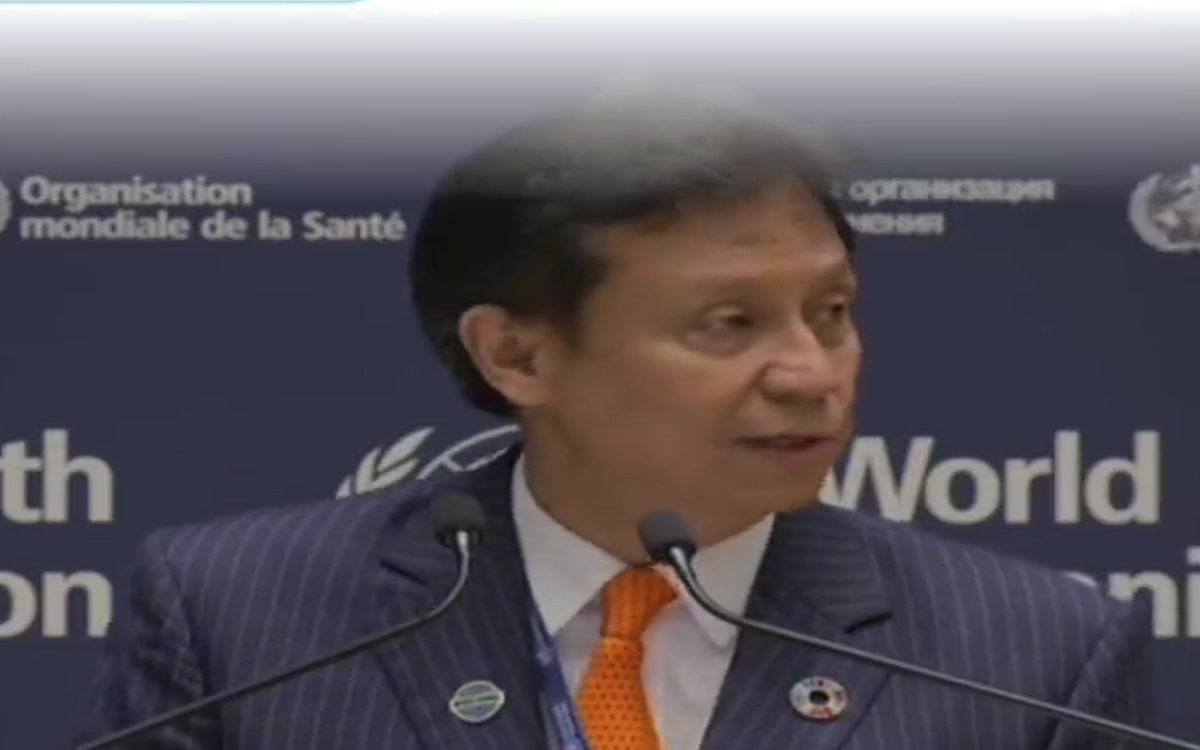
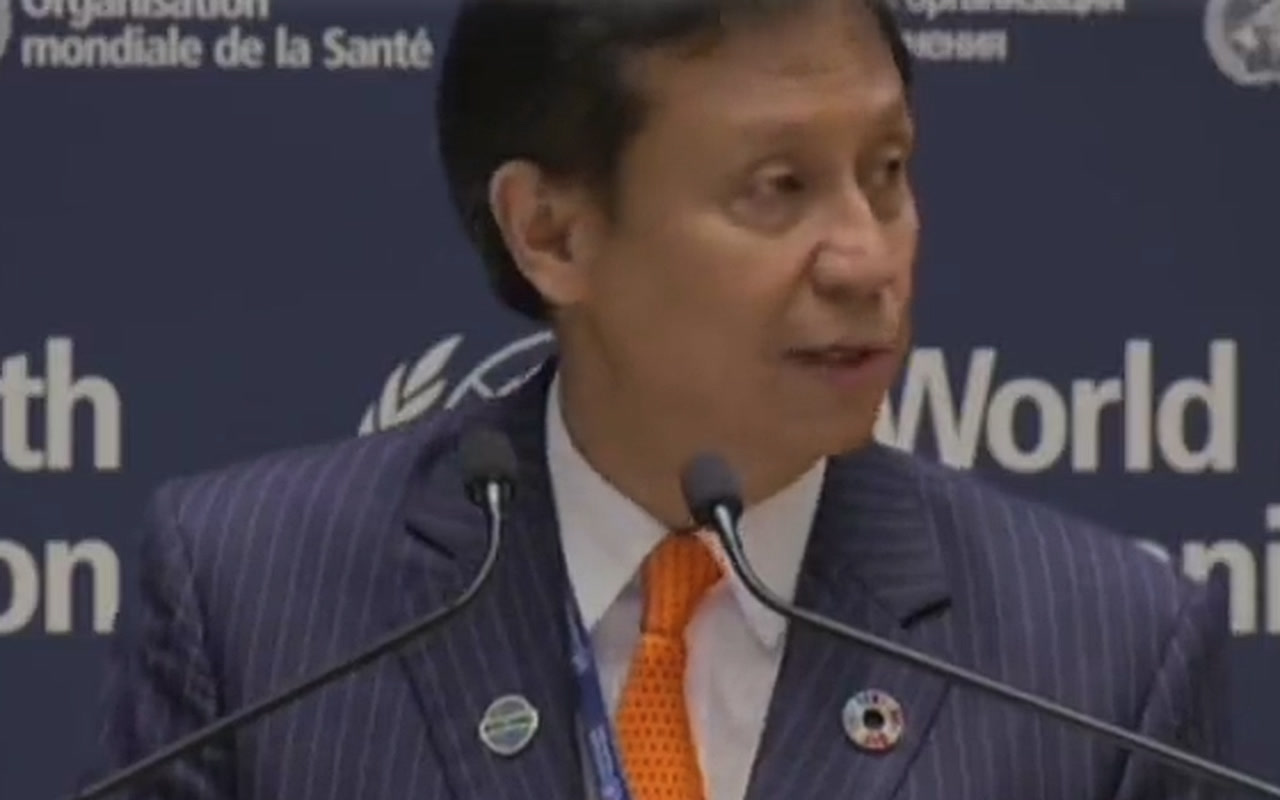
Fix stretched cover crop and rename badge to First Candidates Forum

diff --git a/index.html b/index.html
@@ -300,7 +300,7 @@
       <button type="button" data-filter="articles" aria-pressed="false">Articles</button>
     </div>
     <div class="news-grid">
-      <article class="post" data-category="news"><div class="post-media"><img src="assets/bgs-who-candidates-forum-cover.jpg" alt="Budi Gunadi Sadikin speaking at the First Candidates Forum for the next Director-General of the World Health Organization"><span class="play" aria-hidden="true"><svg viewBox="0 0 24 24" width="26" height="26" fill="currentColor" aria-hidden="true"><path d="M8 5.5v13l11-6.5z"/></svg></span><span class="badge">WHO Candidates Forum</span><h3>Let Us Take the Road Less Travelled</h3></div><div class="post-body"><p>At the First Candidates Forum for the next Director-General of the World Health Organization, Budi Gunadi Sadikin reflects on an unconventional path into public health.</p><span class="go" aria-hidden="true">&#8599;</span></div><button class="post-open" type="button" aria-haspopup="dialog" data-modal="modal-candidates-forum"><span class="sr-only">Watch: Let Us Take the Road Less Travelled</span></button></article>
+      <article class="post" data-category="news"><div class="post-media"><img src="assets/bgs-who-candidates-forum-cover.jpg" alt="Budi Gunadi Sadikin speaking at the First Candidates Forum for the next Director-General of the World Health Organization"><span class="play" aria-hidden="true"><svg viewBox="0 0 24 24" width="26" height="26" fill="currentColor" aria-hidden="true"><path d="M8 5.5v13l11-6.5z"/></svg></span><span class="badge">First Candidates Forum</span><h3>Let Us Take the Road Less Travelled</h3></div><div class="post-body"><p>At the First Candidates Forum for the next Director-General of the World Health Organization, Budi Gunadi Sadikin reflects on an unconventional path into public health.</p><span class="go" aria-hidden="true">&#8599;</span></div><button class="post-open" type="button" aria-haspopup="dialog" data-modal="modal-candidates-forum"><span class="sr-only">Watch: Let Us Take the Road Less Travelled</span></button></article>
       <article class="post" data-category="news"><div class="post-media"><img src="assets/image_ST.png" alt="Minister Budi Gunadi Sadikin Straits Times Interview"><span class="badge">The Straits Times</span><h3>From Jakarta to Geneva: Indonesia's Budi Sadikin Aims for WHO Leadership</h3></div><div class="post-body"><p>An exclusive interview with The Straits Times on Minister Budi Gunadi Sadikin's vision to bring a South-east Asian perspective and financial reform to the WHO.</p><span class="go" aria-hidden="true">&#8599;</span></div><button class="post-open" type="button" aria-haspopup="dialog" data-modal="modal-straits-times"><span class="sr-only">Read: From Jakarta to Geneva: Indonesia's Budi Sadikin Aims for WHO Leadership</span></button></article>
       <article class="post" data-category="news"><div class="post-media"><img src="assets/jakarta-post.jpg.jpg" alt="Minister Budi Gunadi Sadikin speaking in a meeting room"><span class="badge">The Jakarta Post</span><h3>Let&#8217;s Win the WHO Race</h3></div><div class="post-body"><p>The Jakarta Post&#8217;s editorial board outlines why Indonesia must mobilize its highest diplomatic channels to back Minister Budi Gunadi Sadikin&#8217;s bid for the WHO top post.</p><span class="go" aria-hidden="true">&#8599;</span></div><button class="post-open" type="button" aria-haspopup="dialog" data-modal="modal-who-race"><span class="sr-only">Read: Let&#8217;s Win the WHO Race</span></button></article>
       <article class="post" data-category="articles"><div class="post-media"><img src="assets/image_jI__Rb.png" alt="Minister Budi Gunadi Sadikin speaking at a press conference at the State Palace"><span class="badge">PAHO</span><h3>Reforming Healthcare Access: Driving Quality and Equity in Universal Health Coverage</h3></div><div class="post-body"><p>Official briefing on streamlining national health insurance services and ensuring equitable healthcare access at the State Palace.</p><span class="go" aria-hidden="true">&#8599;</span></div><button class="post-open" type="button" aria-haspopup="dialog" data-modal="modal-uhc"><span class="sr-only">Read: Reforming Healthcare Access: Driving Quality and Equity in Universal Health Coverage</span></button></article>
@@ -352,7 +352,7 @@
   <div class="modal-backdrop" data-close></div>
   <div class="modal-card" role="dialog" aria-modal="true" aria-labelledby="modal-candidates-forum-title">
     <button class="modal-close" type="button" data-close aria-label="Close">&#215;</button>
-    <div class="modal-video-head"><span class="badge">WHO Candidates Forum</span><h3 id="modal-candidates-forum-title">Let Us Take the Road Less Travelled</h3></div>
+    <div class="modal-video-head"><span class="badge">First Candidates Forum</span><h3 id="modal-candidates-forum-title">Let Us Take the Road Less Travelled</h3></div>
     <div class="forum-video"><video controls playsinline preload="metadata" poster="assets/bgs-who-candidates-forum-poster.jpg"><source src="assets/bgs-who-candidates-forum.mp4" type="video/mp4">Your browser cannot play this video.</video></div>
     <div class="modal-body forum-body">
       <p class="forum-quote">The famous poet Robert Frost once wrote, &#8220;<em>Two roads diverged in a wood, and I took the one less travelled by. And that has made all the difference.</em>&#8221;</p>
